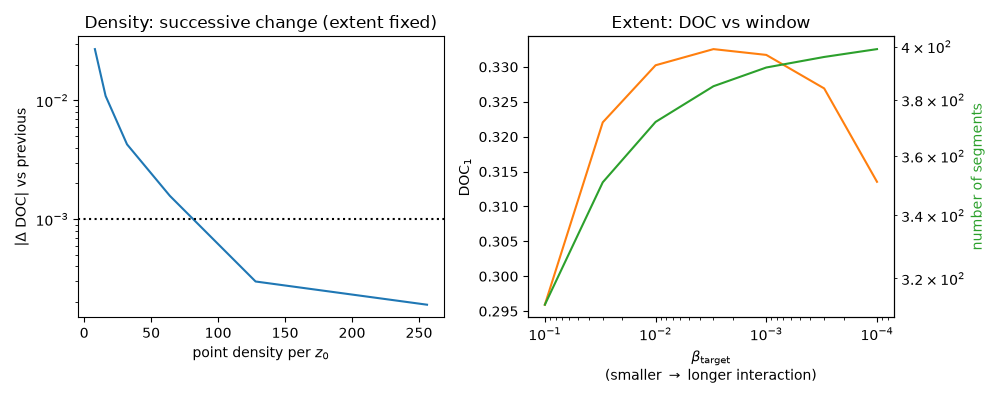
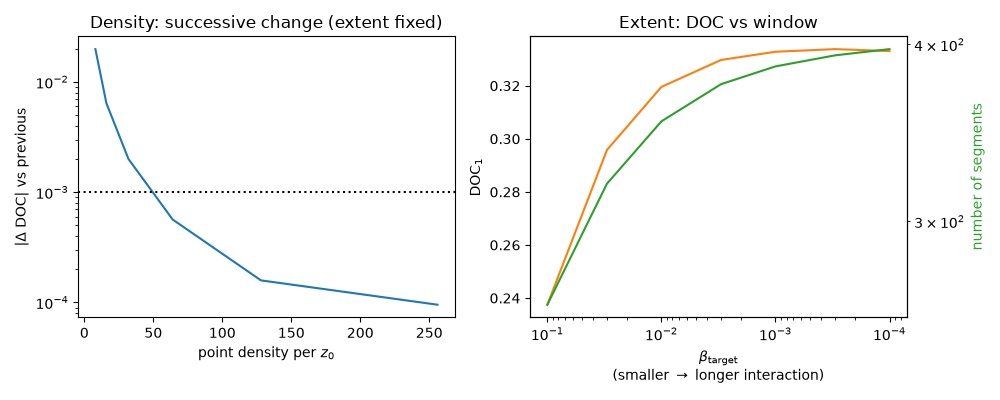
changes to the tests accomodating the new lmax extent

diff --git a/src/convergence_test.py b/src/convergence_test.py
@@ -33,7 +33,7 @@ from metric import degree_of_coherence
 freq1_init   = 1.0
 num_apt_init = 0.2
 kinetic_init = 31e3
-field_init   = 0.25
+field_init   = 1.5e-1
 # phase matched so the interaction is maximized
 diff_init    = freq1_init*0.5 
 order        = 1  # DOC order to converge (the one we optimize)
